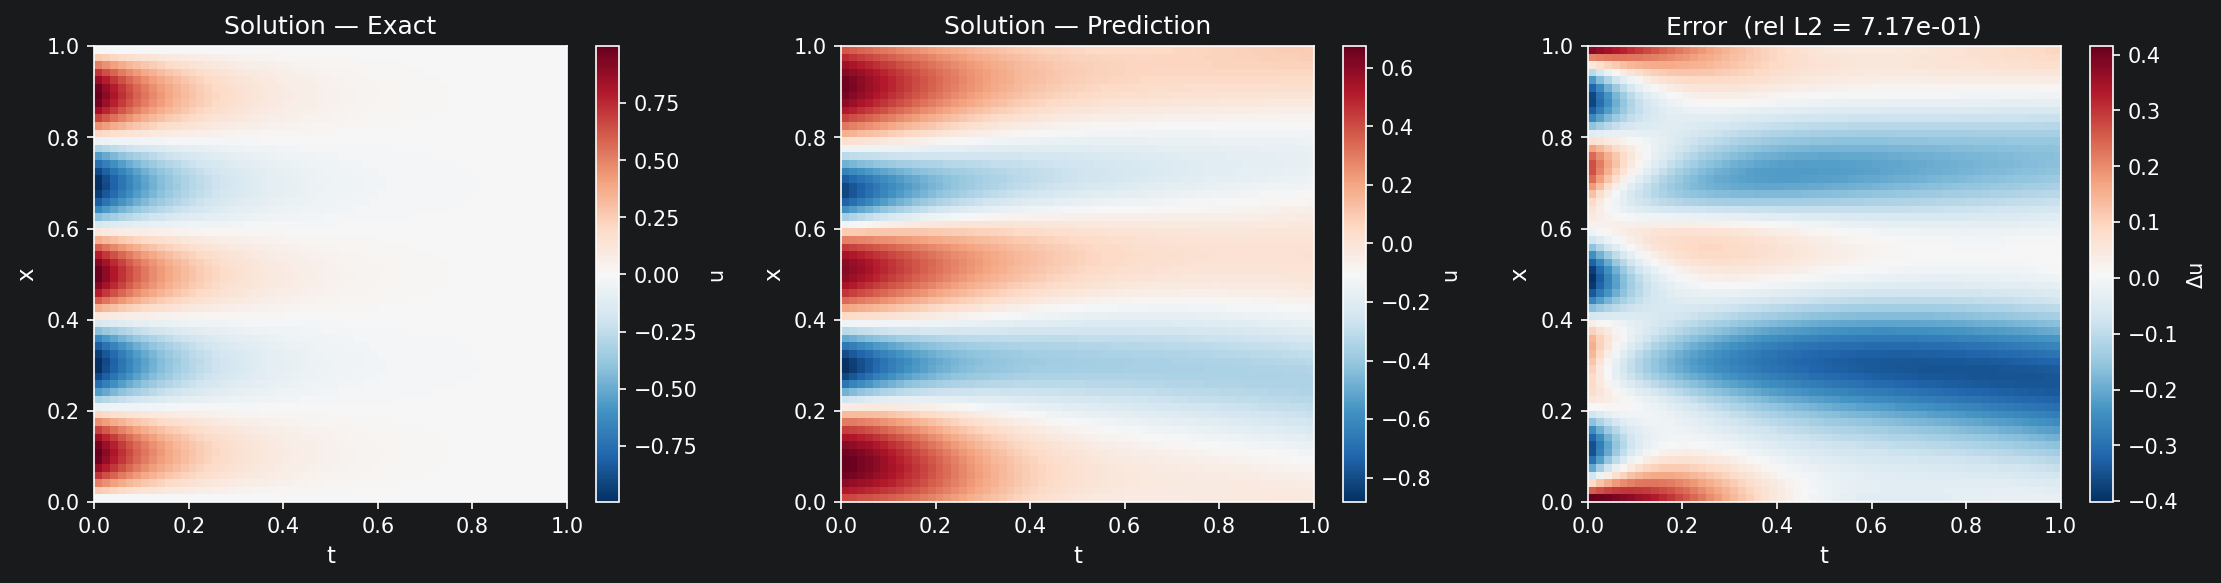
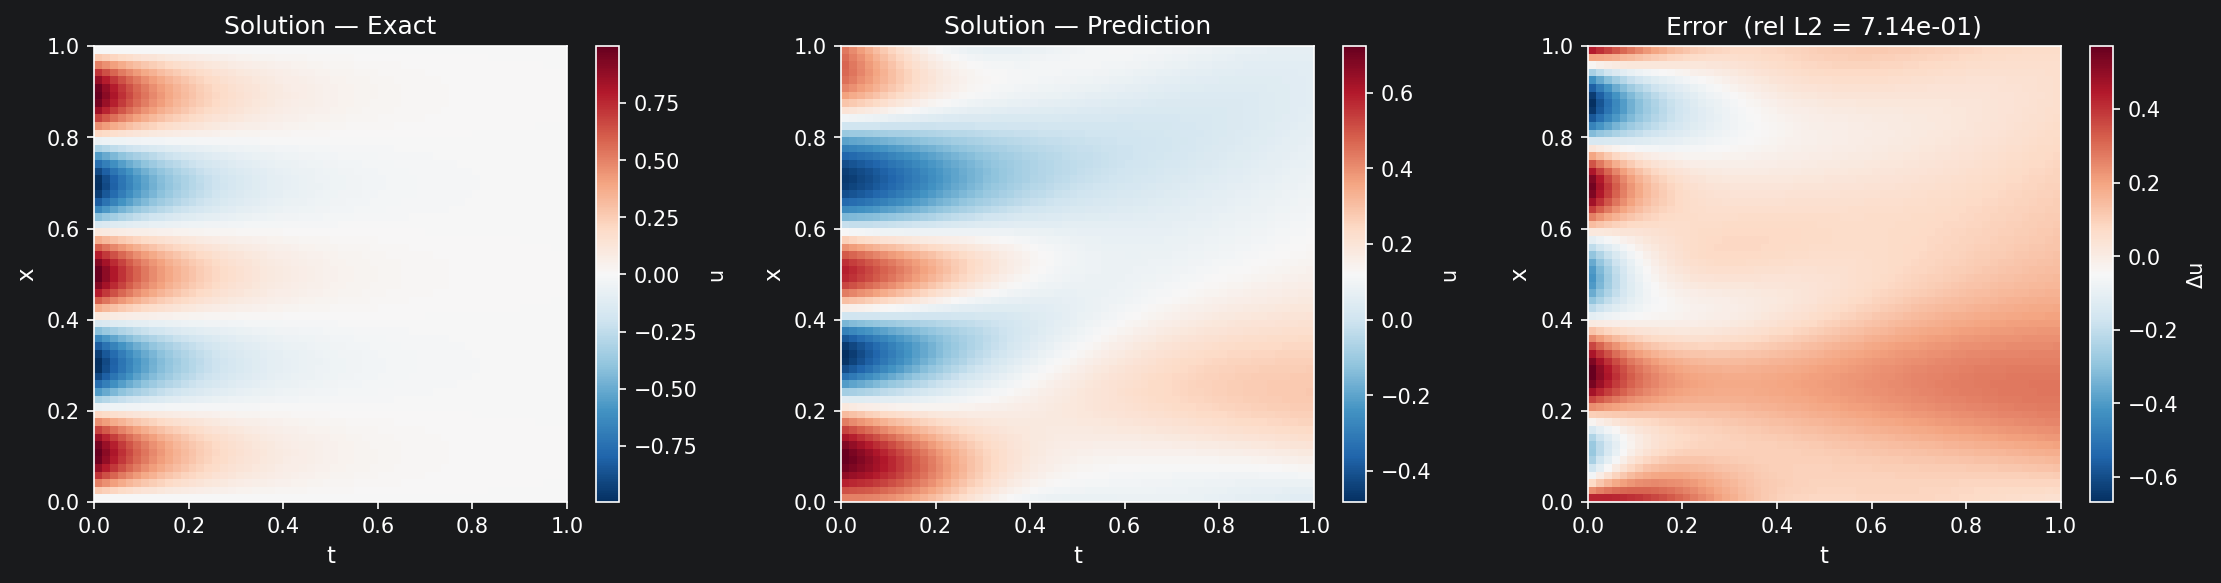
pde now computes loss derivatives

diff --git a/src/pde.py b/src/pde.py
@@ -12,8 +12,8 @@ class PDE:
     t_min: float = 0.0
     t_max: float = 1.0
 
-    def residual(self, u = None, u_x = None, u_t = None, u_xx = None, u_tt = None):
-        """Takes model output including derivatives and returns PDE residual."""
+    def residual(self, u, u_x, points):
+        """Takes model output and sample points and returns PDE residual."""
         return 0
 
     def exact_solution(self, x, t):
@@ -50,8 +50,13 @@ class HeatEquation(PDE):
     t_max: float = 1.0
 
 
-    def residual(self, u=None, u_x=None, u_t=None, u_xx=None, u_tt=None):
-        """Uses u and du/dx computes and returns residual du/dt - alpha * d²u/dx²"""
+    def residual(self, u, u_x, points):
+        """Uses u and du/dx and sample points computes and returns residual du/dt - alpha * d²u/dx²"""
+
+        u_xx = gradient(u_x, points)[:, 0:1]
+
+        u_t = gradient(u, points)[:, 1:2]
+
         return u_t - self.alpha * u_xx
 
 

diff --git a/src/loss.py b/src/loss.py
@@ -70,15 +70,11 @@ def pde_loss(model, xt_int, pde: PDE):
         MSE Loss of residual of the PDE for the model output
     """
 
-    # TODO : for now this doesnt compute u_tt to save compute, should be extended to get form pde what terms are needed and feed it those
 
-    u, u_x, *_ = model(xt_int)
+    u, u_x, *_ = model(xt_int) # model output
 
-
-    u_t = gradient(u, xt_int)[:, 1:2]
-    u_xx = gradient(u_x, xt_int)[:, 0:1]
-
-    r = pde.residual(u=u, u_x=u_x, u_t=u_t, u_xx=u_xx)
+    # use the PDE method to compute the residual from the derivatives
+    r = pde.residual(u, u_x, xt_int)
 
     return mse(r, torch.zeros_like(r))
 
